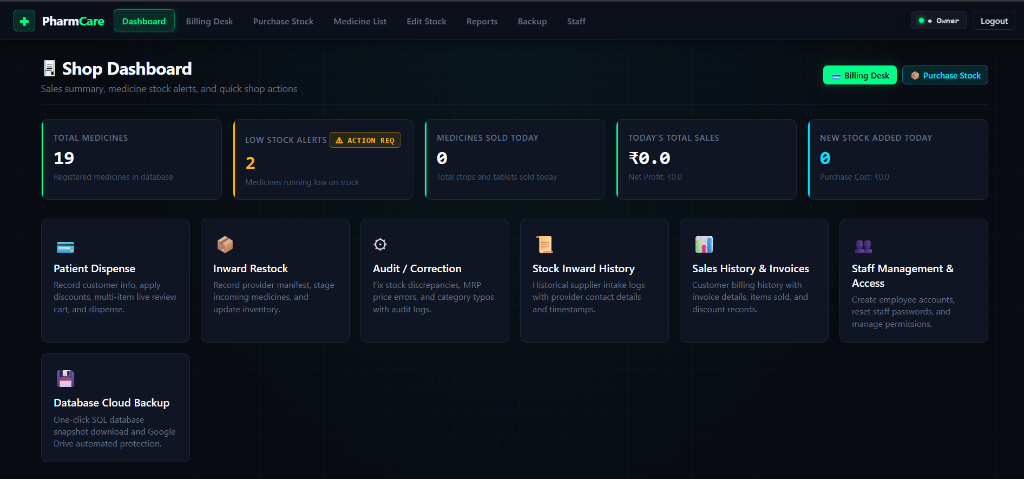
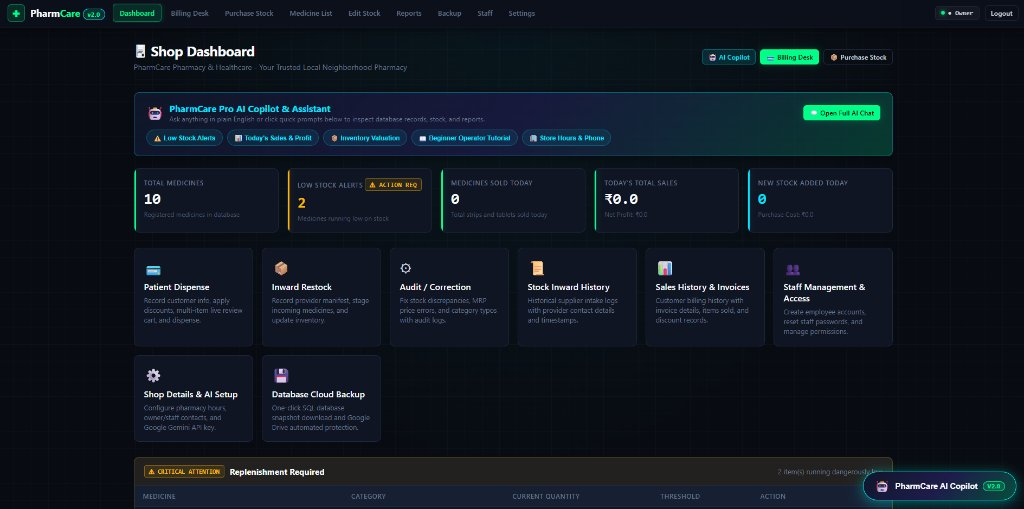
project update

diff --git a/index.html b/index.html
@@ -536,8 +536,7 @@
 
       <!-- ========================================================================= -->
       <!-- PROJECT 1: PHARMCARE (MAJOR PROJECT - KEEP FIRST)                         -->
-      <!-- Features interactive 1-by-1 screenshot switcher, counter & zoom lightbox. -->
-      <!-- TO ADD MORE SCREENSHOTS LATER: Simply add more .carousel-slide items!     -->
+      <!-- Enterprise multi-module medical inventory ERP, POS billing & Pro AI Copilot-->
       <!-- ========================================================================= -->
       <div class="proj-card major-project-card" data-tilt>
         <!-- Project Preview Showcase Frame -->
@@ -550,7 +549,7 @@
             </div>
             <div class="proj-url-bar" title="PharmCare ERP Suite">
               <i class='bx bx-lock-alt'></i>
-              <span class="carousel-caption-text" id="pharmcare-screen-caption">Shop Dashboard &amp; Real-Time Metrics</span>
+              <span class="carousel-caption-text" id="pharmcare-screen-caption">Shop Dashboard v2.0 &amp; PharmCare Pro AI Copilot</span>
             </div>
             <div class="proj-actions">
               <span class="proj-status-badge major-badge"><i class='bx bxs-star'></i> Major Project</span>
@@ -560,21 +559,21 @@
           <!-- Carousel Container for Swapping Pictures 1 by 1 -->
           <div class="proj-carousel" data-carousel-id="pharmcare">
             <div class="carousel-track">
-              <!-- Slide 1: Shop Dashboard -->
-              <div class="carousel-slide active" data-index="0" data-caption="Shop Dashboard &amp; Real-Time Metrics">
-                <img src="images/pharmcare/pharmcare-01-dashboard.png" alt="PharmCare Shop Dashboard" class="proj-img">
+              <!-- Slide 1: Shop Dashboard v2.0 with AI Copilot Banner -->
+              <div class="carousel-slide active" data-index="0" data-caption="Shop Dashboard v2.0 &amp; PharmCare Pro AI Copilot Suite">
+                <img src="images/pharmcare/pharmcare-01-dashboard.png" alt="PharmCare Shop Dashboard v2.0 with Integrated AI Copilot" class="proj-img">
               </div>
-              <!-- Slide 2: Billing Desk POS -->
-              <div class="carousel-slide" data-index="1" data-caption="Billing Desk &amp; Cash Memo (POS)">
-                <img src="images/pharmcare/pharmcare-02-billing.png" alt="PharmCare Billing Desk Cash Memo" class="proj-img">
+              <!-- Slide 2: Pro AI Copilot Chat Modal & WhatsApp Delivery -->
+              <div class="carousel-slide" data-index="1" data-caption="PharmCare Pro AI Copilot — WhatsApp Delivery &amp; Medical Consultation">
+                <img src="images/pharmcare/pharmcare-02-billing.png" alt="PharmCare Pro AI Copilot Chat Modal with WhatsApp Delivery and Medical Engine" class="proj-img">
               </div>
               <!-- Slide 3: Purchase & Restock -->
               <div class="carousel-slide" data-index="2" data-caption="Purchase &amp; Supplier Stock Inward">
                 <img src="images/pharmcare/pharmcare-03-purchase.png" alt="PharmCare Purchase and Stock Inward" class="proj-img">
               </div>
-              <!-- Slide 4: Medicine List -->
-              <div class="carousel-slide" data-index="3" data-caption="Medicine List &amp; Live Stock Search">
-                <img src="images/pharmcare/pharmcare-04-medicinelist.png" alt="PharmCare Medicine Search and Inventory" class="proj-img">
+              <!-- Slide 4: Medicine Catalog & AI Generic Substitute Finder -->
+              <div class="carousel-slide" data-index="3" data-caption="Medicine Catalog, Salt Formulas &amp; AI Generic Substitute Finder">
+                <img src="images/pharmcare/pharmcare-04-medicinelist.png" alt="PharmCare Medicine Search, Salt Formulas and AI Substitute Finder" class="proj-img">
               </div>
               <!-- Slide 5: Stock Edit & Reconcile -->
               <div class="carousel-slide" data-index="4" data-caption="Stock Audit &amp; Price Reconciliation">
@@ -592,7 +591,6 @@
               <div class="carousel-slide" data-index="7" data-caption="Staff Accounts &amp; Access Control (RBAC)">
                 <img src="images/pharmcare/pharmcare-08-staff.png" alt="PharmCare Staff Management and RBAC" class="proj-img">
               </div>
-              <!-- [NOTE]: To add more screenshots, duplicate a .carousel-slide block above! -->
             </div>
 
             <!-- 1-by-1 Image Navigation Controls -->
@@ -622,24 +620,26 @@
         <div class="proj-body">
           <div class="proj-meta-row">
             <div>
-              <div class="yr"><i class='bx bxs-badge-check'></i> Major Project &bull; Java &bull; Spring Boot &bull; MySQL</div>
-              <h3>⚡ PharmCare — Full-Stack Pharmacy Management &amp; POS System</h3>
+              <div class="yr"><i class='bx bxs-badge-check'></i> Major Project &bull; Version 2.0 &bull; Java &bull; Spring Boot &bull; AI Copilot</div>
+              <h3>⚡ PharmCare v2.0 — Pharmacy ERP &amp; Pro AI Copilot Assistant</h3>
             </div>
             <div class="pill-row">
               <span class="pill">Java</span>
               <span class="pill">Spring Boot</span>
               <span class="pill">Spring Security</span>
+              <span class="pill">Gemini AI</span>
               <span class="pill">MySQL</span>
               <span class="pill">Hibernate</span>
               <span class="pill">Thymeleaf</span>
+              <span class="pill">AI Copilot</span>
               <span class="pill">POS Billing</span>
             </div>
           </div>
           <ul>
-            <li><strong>Multi-Item POS Dispensing:</strong> Interactive patient order cart supporting percentage (%) and flat currency (₹) discounts, real-time inventory validation to prevent over-dispensing, and distinct billing invoice numbers.</li>
-            <li><strong>Role-Based Access Control (RBAC):</strong> Multi-tier accounts distinguishing Owner (Admin) from Staff (Cashier). Confidential wholesale acquisition costs and profit margins are strictly protected and hidden from cashier staff.</li>
-            <li><strong>Supplier Inward Restocking:</strong> Log incoming medicine batches from suppliers and distributors, automatically update shelf stock counts, and manage wholesale prices.</li>
-            <li><strong>Inventory Auditing &amp; Backups:</strong> Mistake correction logs with mandatory reasons, visit-grouped customer transaction records, 1-click database backups, and automated cloud sync protection.</li>
+            <li><strong>PharmCare Pro AI Copilot Assistant:</strong> Dual-mode intelligent assistant (powered by Google Gemini Cloud API + offline Local Medical Engine) providing instant inventory valuation, low-stock warnings, today&rsquo;s profit analysis, salt formula lookup, generic medicine substitute finder, and automated WhatsApp home delivery routing.</li>
+            <li><strong>Multi-Item POS Dispensing &amp; Billing:</strong> Interactive patient order cart supporting percentage (%) and flat currency (₹) discounts, real-time inventory validation to prevent over-dispensing, and distinct tax invoices.</li>
+            <li><strong>Role-Based Access Control (RBAC):</strong> Multi-tier security distinguishing Owner (Admin) from Staff (Cashier). Confidential wholesale acquisition costs and profit margins are strictly protected and hidden from cashier staff.</li>
+            <li><strong>Supplier Inward Restocking &amp; Auditing:</strong> Log incoming medicine batches from suppliers, automatically update shelf stock counts and rack locations, with mistake correction audit logs and 1-click cloud database backups.</li>
           </ul>
           <div class="proj-links">
             <a href="https://github.com/pratyaypal54-ops/pharmacy-app" target="_blank" rel="noopener" class="btn-primary-link">
@@ -657,7 +657,7 @@
 
       <!-- ========================================================================= -->
       <!-- PROJECT 2: TECHSTORE E-COMMERCE PLATFORM (CODEALPHA INTERNSHIP)           -->
-      <!-- Features multi-picture carousel, filters, price slider & live cart suite  -->
+      <!-- Features multi-picture carousel, Gemini AI, cart, checkout & tracking     -->
       <!-- ========================================================================= -->
       <div class="proj-card" data-tilt>
         <!-- Project Preview Showcase Frame -->
@@ -670,7 +670,7 @@
             </div>
             <div class="proj-url-bar" title="TechStore E-Commerce Platform">
               <i class='bx bx-lock-alt'></i>
-              <span class="carousel-caption-text" id="techstore-screen-caption">Storefront Showcase &amp; Audio Gear</span>
+              <span class="carousel-caption-text" id="techstore-screen-caption">Storefront Showcase &amp; Gemini AI Assistant</span>
             </div>
             <div class="proj-actions">
               <span class="proj-status-badge internship-badge"><i class='bx bx-briefcase-alt-2'></i> Internship Project</span>
@@ -680,13 +680,29 @@
           <!-- Carousel Container for Swapping Pictures 1 by 1 -->
           <div class="proj-carousel" data-carousel-id="techstore">
             <div class="carousel-track">
-              <!-- Slide 1: Storefront Hero Showcase -->
-              <div class="carousel-slide active" data-index="0" data-caption="Storefront Hero Showcase &amp; Featured Audio Gear">
-                <img src="images/techstore/techstore-01-hero.png" alt="TechStore Storefront Hero Showcase" class="proj-img">
+              <!-- Slide 1: Storefront Hero Showcase & AI Assistant Trigger -->
+              <div class="carousel-slide active" data-index="0" data-caption="Storefront Hero Showcase with Integrated Gemini AI Assistant">
+                <img src="images/techstore/techstore-01-hero.png" alt="TechStore Storefront Hero Showcase and Gemini AI Assistant" class="proj-img">
               </div>
               <!-- Slide 2: Product Catalog & Filter Suite -->
-              <div class="carousel-slide" data-index="1" data-caption="Live Product Catalog, Price Slider &amp; Filter Suite">
+              <div class="carousel-slide" data-index="1" data-caption="Live Product Catalog, Multi-Category Filters &amp; Price Slider">
                 <img src="images/techstore/techstore-02-catalog.png" alt="TechStore Product Catalog and Filters" class="proj-img">
+              </div>
+              <!-- Slide 3: Interactive Cart Drawer & Promo Engine -->
+              <div class="carousel-slide" data-index="2" data-caption="Slide-out Cart Drawer with Free Shipping Milestone &amp; Coupon Verification">
+                <img src="images/techstore/techstore-03-cart.png" alt="TechStore Slide-out Cart and Free Shipping Progress" class="proj-img">
+              </div>
+              <!-- Slide 4: Checkout Pipeline - Step 1: Shipping -->
+              <div class="carousel-slide contain-fit" data-index="3" data-caption="Streamlined 3-Step Checkout Pipeline — Step 1: Shipping Details">
+                <img src="images/techstore/techstore-04-checkout-shipping.png" alt="TechStore Checkout Shipping Form" class="proj-img">
+              </div>
+              <!-- Slide 5: Checkout Pipeline - Step 2: Payment Gateway -->
+              <div class="carousel-slide contain-fit" data-index="4" data-caption="Multi-Option Payment Gateway Simulation — Step 2: Card, UPI &amp; COD">
+                <img src="images/techstore/techstore-05-checkout-payment.png" alt="TechStore Checkout Payment Selection" class="proj-img">
+              </div>
+              <!-- Slide 6: Real-Time Order Tracking Timeline -->
+              <div class="carousel-slide contain-fit" data-index="5" data-caption="Live Order Status Tracking Timeline &amp; Delivery Lifecycle">
+                <img src="images/techstore/techstore-06-order-tracking.png" alt="TechStore Order Tracking and Delivery Lifecycle" class="proj-img">
               </div>
             </div>
 
@@ -700,7 +716,7 @@
 
             <!-- Slide Counter Badge -->
             <div class="carousel-info-badge">
-              <span class="slide-num">1</span> / <span class="slide-total">2</span>
+              <span class="slide-num">1</span> / <span class="slide-total">6</span>
             </div>
 
             <!-- Fullscreen Lightbox Zoom Button -->
@@ -717,24 +733,27 @@
         <div class="proj-body">
           <div class="proj-meta-row">
             <div>
-              <div class="yr"><i class='bx bx-briefcase-alt-2'></i> CodeAlpha Internship &bull; Full-Stack E-Commerce</div>
-              <h3>⚡ TechStore — Modern Electronics &amp; Gadgets Store</h3>
+              <div class="yr"><i class='bx bx-briefcase-alt-2'></i> CodeAlpha Internship &bull; Version 2.0 &bull; Full-Stack E-Commerce &amp; AI</div>
+              <h3>⚡ TechStore — Modern Electronics Store &amp; Gemini AI Assistant</h3>
             </div>
             <div class="pill-row">
               <span class="pill">Node.js</span>
               <span class="pill">Express</span>
+              <span class="pill">Gemini AI</span>
               <span class="pill">SQLite</span>
               <span class="pill">JavaScript</span>
               <span class="pill">REST API</span>
               <span class="pill">JWT Auth</span>
-              <span class="pill">E-Commerce Cart</span>
+              <span class="pill">AI Assistant</span>
+              <span class="pill">Cart &amp; Checkout</span>
             </div>
           </div>
           <ul>
-            <li><strong>Dynamic Catalog &amp; Multi-Faceted Filters:</strong> Real-time keyword search across 17+ electronic products, category tabs (Audio, Wearables, Monitors, TVs, Consoles), interactive price range slider (₹1,000–₹2,00,000), and in-stock toggles.</li>
-            <li><strong>Interactive Cart &amp; Promotional Engine:</strong> Slide-out cart drawer with live quantity adjustments, discount coupon verification (<code>TECH15</code> for 15% off), dynamic free shipping milestone tracker (orders over ₹499), and GST calculation.</li>
-            <li><strong>Multi-Step Checkout &amp; Payment Simulation:</strong> Streamlined 3-step checkout pipeline (Shipping &rarr; Payment &rarr; Review) supporting simulated Credit/Debit cards, UPI, and Cash on Delivery with printable receipt generation.</li>
-            <li><strong>Live Order Tracking &amp; User Accounts:</strong> Order status lifecycle engine (Pending &rarr; Processing &rarr; Shipped &rarr; Delivered) searchable by tracking ID, backed by JWT-authenticated user registration and persistent SQLite storage.</li>
+            <li><strong>Integrated Gemini AI Shopping Assistant:</strong> Dual-engine AI conversational assistant (powered by Google Gemini Cloud API with seamless local heuristic fallback) providing smart product recommendations, automated customer review sentiment summarization (pros &amp; cons extraction), and 90-day price trend analysis with a definitive &ldquo;Best Time to Buy&rdquo; verdict.</li>
+            <li><strong>Dynamic Catalog &amp; Multi-Faceted Filters:</strong> Real-time keyword search across 17+ electronics items, multi-category navigation (Phones, Monitors, TVs, Tablets, Consoles, Audio, Wearables), interactive price range slider (₹1,000–₹1,00,000), stock toggles, and multi-parameter sorting.</li>
+            <li><strong>Interactive Cart &amp; Promotional Engine:</strong> Responsive slide-out cart drawer with live quantity adjustments, discount coupon validation engine (<code>TECH15</code> for 15% off), dynamic free shipping milestone tracker (orders over ₹499), and automatic 18% GST calculation.</li>
+            <li><strong>Streamlined 3-Step Checkout &amp; Payment Gateway:</strong> Guided checkout pipeline (Shipping Address &rarr; Payment Method &rarr; Review) simulating Credit/Debit card validation, PayPal/UPI, and Cash on Delivery with instant confirmation and printable invoice receipts.</li>
+            <li><strong>Real-Time Order Tracking &amp; Multi-Vendor Platform:</strong> Visual 4-stage order fulfillment stepper (Pending &rarr; Processing &rarr; Shipped &rarr; Delivered) searchable by tracking ID (e.g. <code>ORD-2025-770598</code>), with dedicated buyer profiles and multi-vendor seller onboarding workflows.</li>
           </ul>
           <div class="proj-links">
             <a href="https://pratyaypal54-ops.github.io/CodeAlpha_EcommerceStore/" target="_blank" rel="noopener" class="btn-primary-link">
@@ -744,7 +763,7 @@
               <i class='bx bxl-github'></i> GitHub Repo
             </a>
             <button class="open-gallery-btn" data-carousel-target="techstore">
-              <i class='bx bx-images'></i> 2 UI Screens
+              <i class='bx bx-images'></i> 6 UI Screens
             </button>
           </div>
         </div>

diff --git a/script.js b/script.js
@@ -514,8 +514,10 @@ Concepts:   Data Structures & Algorithms, Object-Oriented Programming (OOP), DBM
       case 'projects':
         appendTermOutput(`[FLAGSHIP BUILDS & INTERNSHIP PROJECTS]
 --------------------------------------------------
-1. ⚡ PharmCare — Full-Stack Pharmacy Management & POS System (Major Project)
-   - Stack: Java, Spring Boot, Spring Security, MySQL, Thymeleaf
+1. ⚡ PharmCare v2.0 — Pharmacy ERP & Pro AI Copilot Assistant (Major Project)
+   - Stack: Java, Spring Boot, Spring Security, Google Gemini API, MySQL, Hibernate, Thymeleaf
+   - Integrated PharmCare Pro AI Copilot (Gemini API + Local Medical Engine) for stock & sales analysis
+   - Patient medicine inquiries, generic salt formula substitute finder & WhatsApp doorstep delivery
    - Multi-Item POS dispensing & patient cart with % and flat ₹ discounts
    - Role-Based Access Control (RBAC) separating Owner & Cashier access
    - Supplier restock inward delivery logs & inventory discrepancy audits
@@ -523,12 +525,14 @@ Concepts:   Data Structures & Algorithms, Object-Oriented Programming (OOP), DBM
    - GitHub:    https://github.com/pratyaypal54-ops/pharmacy-app
    - Live Demo: https://pratyaypal54-ops.github.io/pharmacy-app/
 
-2. 🛒 TechStore — Full-Stack Electronics & Gadgets Store (CodeAlpha Internship)
-   - Stack: Node.js, Express, SQLite, JavaScript (ES6+), HTML5, CSS3, JWT
-   - Real-time search, multi-category filters & interactive price slider
-   - Slide-out cart drawer with live coupon verification (TECH15)
-   - Multi-step checkout pipeline with simulated card/UPI/COD payment
-   - Live order tracking timeline by ID & persistent user accounts
+2. 🛒 TechStore v2.0 — Modern Electronics Store & Gemini AI Assistant (CodeAlpha Internship)
+   - Stack: Node.js, Express, SQLite, Google Gemini API, JavaScript (ES6+), REST API, JWT
+   - Integrated Gemini AI shopping copilot with review summarizer (pros/cons) & 90-day price trend advisor
+   - Real-time search, multi-category filters & interactive price slider (₹1,000–₹1,00,000)
+   - Slide-out cart drawer with live coupon engine (TECH15) & free shipping progress meter
+   - Streamlined 3-step checkout pipeline (Card / UPI / COD) with printable receipts
+   - Live order tracking lifecycle engine (Pending → Processing → Shipped → Delivered)
+   - Multi-vendor seller onboarding workflows & authenticated buyer accounts
    - Live Demo: https://pratyaypal54-ops.github.io/CodeAlpha_EcommerceStore/
    - GitHub:    https://github.com/pratyaypal54-ops/CodeAlpha_EcommerceStore
 

diff --git a/style.css b/style.css
@@ -1375,6 +1375,24 @@ nav ul a:hover::after, nav ul a.active::after{width: 100%;}
   transform: scale(1.03);
 }
 
+/* Contained Modal Showcase for Dialogs & Steppers */
+.carousel-slide.contain-fit{
+  background: radial-gradient(circle at center, #0d1533 0%, #040711 100%);
+  padding: 10px;
+}
+.carousel-slide.contain-fit .proj-img{
+  width: auto;
+  height: auto;
+  max-width: 92%;
+  max-height: 92%;
+  object-fit: contain;
+  border-radius: 8px;
+  box-shadow: 0 10px 28px rgba(0, 0, 0, 0.65);
+}
+.proj-card:hover .carousel-slide.contain-fit.active .proj-img{
+  transform: scale(1.02);
+}
+
 /* Swapping Controls: Next & Prev Buttons */
 .carousel-nav-btn{
   position: absolute;
